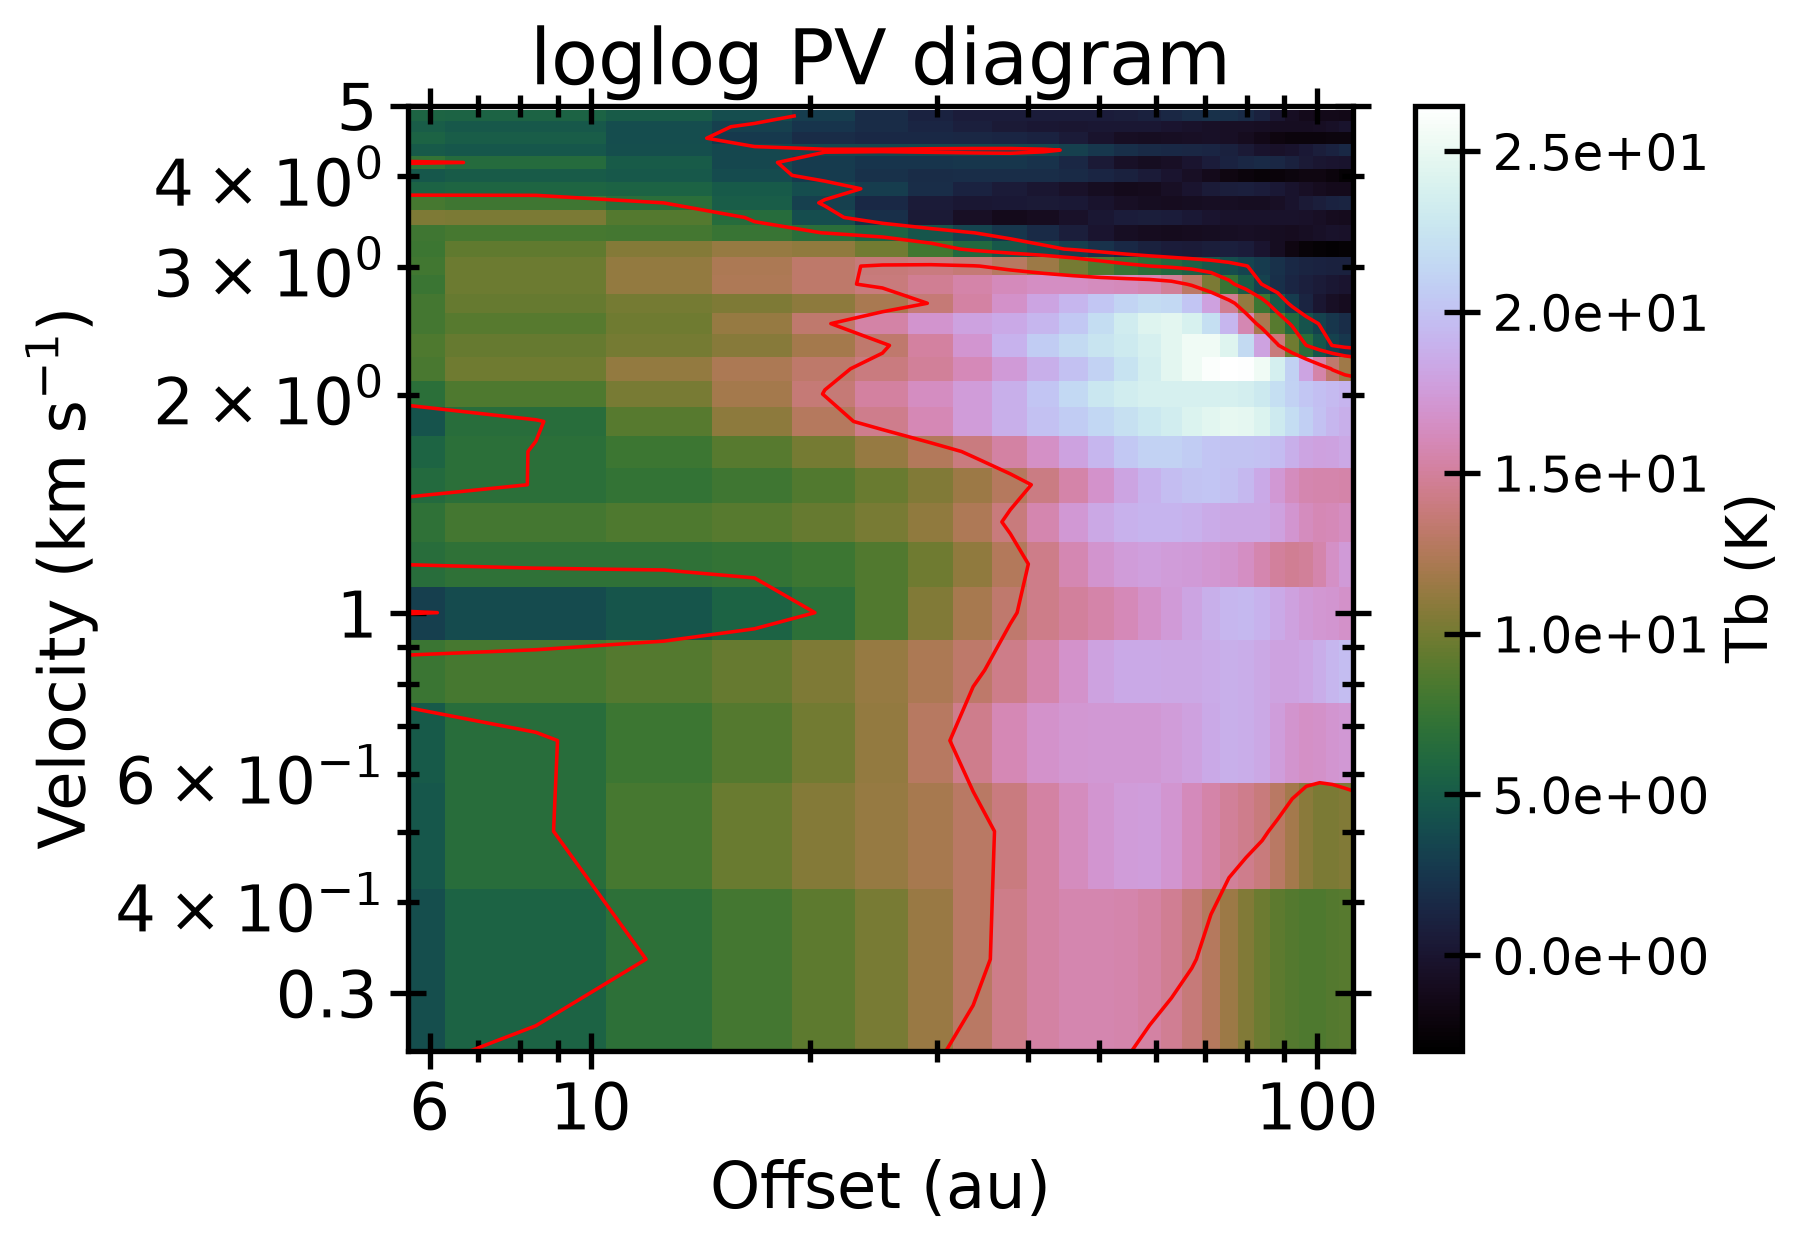
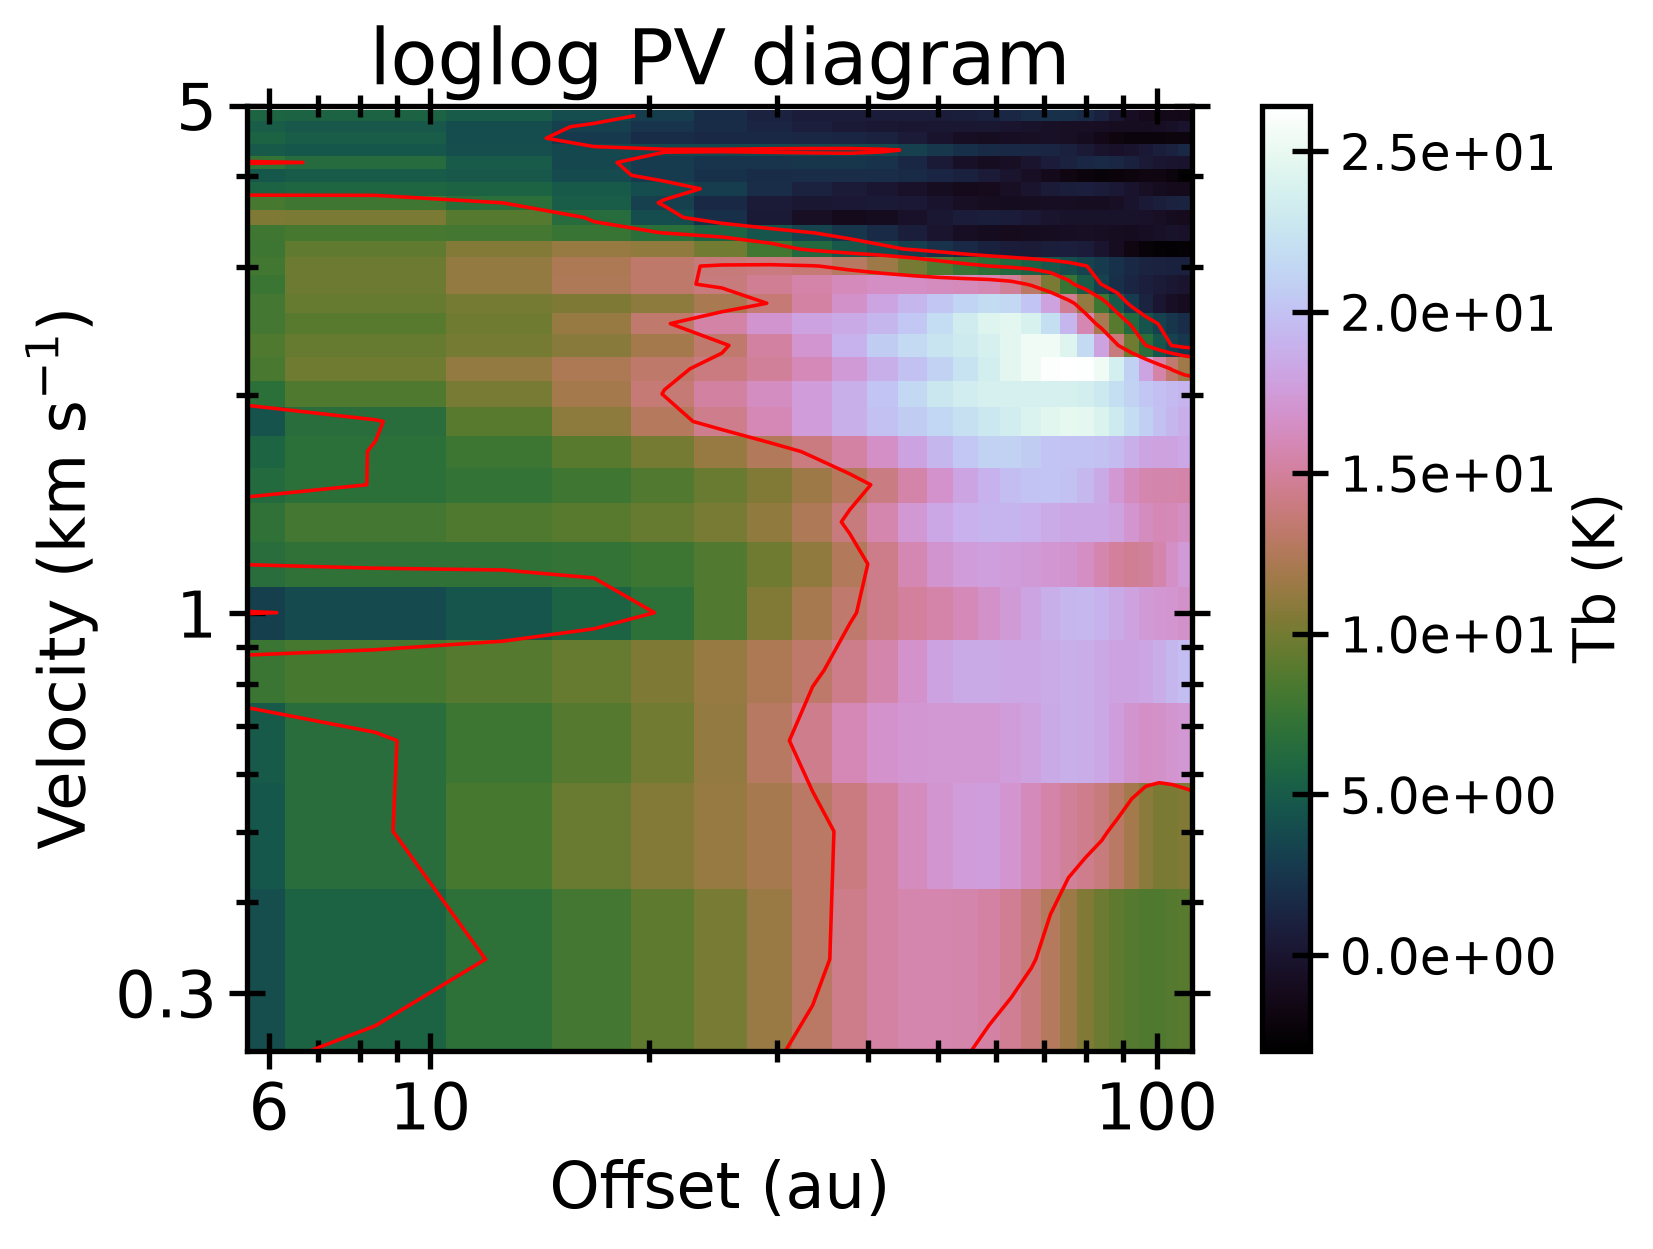
better log tick labeling

diff --git a/plotastrodata/plot_utils.py b/plotastrodata/plot_utils.py
@@ -344,14 +344,14 @@ class PlotAxes2D():
     Args:
         samexy (bool, optional): True supports same ticks between x and y. Defaults to True.
         loglog (float, optional): If a float is given, plot on a log-log plane, and xim=(xmax / loglog, xmax) and so does ylim. Defaults to None.
-        xscale (str, optional): Defaults to None.
-        yscale (str, optional): Defaults to None.
+        xscale (str, optional): ``'log'`` labels decade ticks and ticks near the limits; other intermediate ticks are minor and unlabeled. Defaults to ``'linear'``.
+        yscale (str, optional): ``'log'`` labels decade ticks and ticks near the limits; other intermediate ticks are minor and unlabeled. Defaults to ``'linear'``.
         xlim (list, optional): Defaults to None.
         ylim (list, optional): Defaults to None.
         xlabel (str, optional): Defaults to None.
         ylabel (str, optional): Defaults to None.
-        xticks (list, optional): Defaults to None.
-        yticks (list, optional): Defaults to None.
+        xticks (list, optional): Explicit major ticks, overriding the default locator. Defaults to None.
+        yticks (list, optional): Explicit major ticks, overriding the default locator. Defaults to None.
         xticklabels (list, optional): Defaults to None.
         yticklabels (list, optional): Defaults to None.
         xticksminor (list or int, optional): If int, int times more than xticks. Defaults to None.
@@ -393,16 +393,25 @@ class PlotAxes2D():
     def _init_ticks(self, axis: str) -> None:
         ax = self.ax
         ticks_attr = f'{axis}ticks'
-        ticklabels_attr = f'{axis}ticklabels'
         scale = getattr(self, f'{axis}scale')
-        lim = getattr(self, f'{axis}lim')
         ticks = getattr(self, ticks_attr)
         if ticks is None:
-            ticks = getattr(ax, f'get_{axis}ticks')()
             if scale == 'log':
-                ticks, ticklabels = logticks(ticks, lim)
-                setattr(self, ticklabels_attr, ticklabels)
-            setattr(self, ticks_attr, ticks)
+                axis_obj = getattr(ax, f'{axis}axis')
+                lim = getattr(self, f'{axis}lim')
+                if lim is None:
+                    lim = axis_obj.get_view_interval()
+                lim = np.sort(lim)
+                major_ticks = mpl.ticker.LogLocator(base=10).tick_values(*lim)
+                major_ticks, major_labels = logticks(major_ticks, lim)
+                axis_obj.set_ticks(major_ticks)
+                axis_obj.set_ticklabels(major_labels)
+                ll = mpl.ticker.LogLocator(base=10, subs=np.arange(2.0, 10.0))
+                axis_obj.set_minor_locator(ll)
+                axis_obj.set_minor_formatter(mpl.ticker.NullFormatter())
+            else:
+                ticks = getattr(ax, f'get_{axis}ticks')()
+                setattr(self, ticks_attr, ticks)
 
     def _make_ticks(self, ticks: np.ndarray, ticksminor: int) -> np.ndarray:
         dt = ticks[1] - ticks[0]
@@ -414,11 +423,15 @@ class PlotAxes2D():
         ax = self.ax
         attr = f'{axis}ticks'
         ticks = getattr(self, attr)
-        getattr(ax, f'set_{attr}')(ticks)
+        if ticks is not None:
+            getattr(ax, f'set_{attr}')(ticks)
         ticksminor = getattr(self, f'{attr}minor')
         if ticksminor is not None:
             if isinstance(ticksminor, int):
-                ticksminor = self._make_ticks(ticks, ticksminor)
+                if ticks is None:
+                    ticks = getattr(ax, f'get_{axis}ticks')()
+                major_ticks = (ticks)
+                ticksminor = self._make_ticks(major_ticks, ticksminor)
             getattr(ax, f'set_{attr}')(ticksminor, minor=True)
 
     def _apply_if_not_none(self, axis: str, attr: str) -> None: